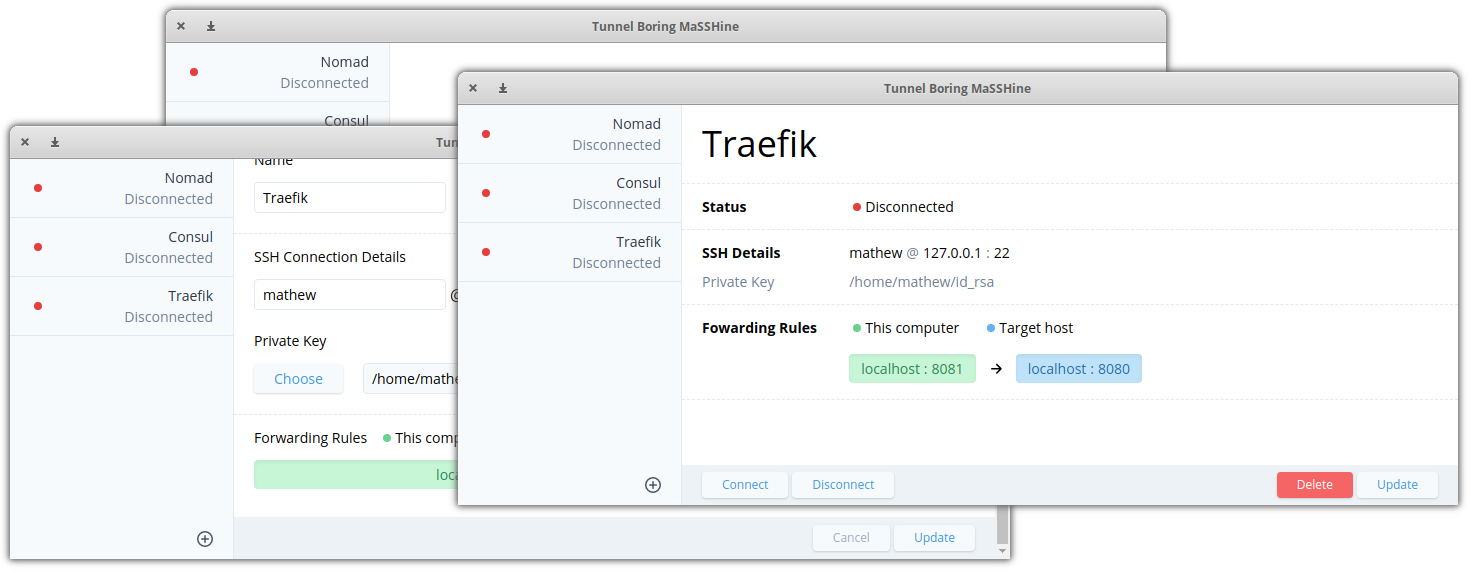
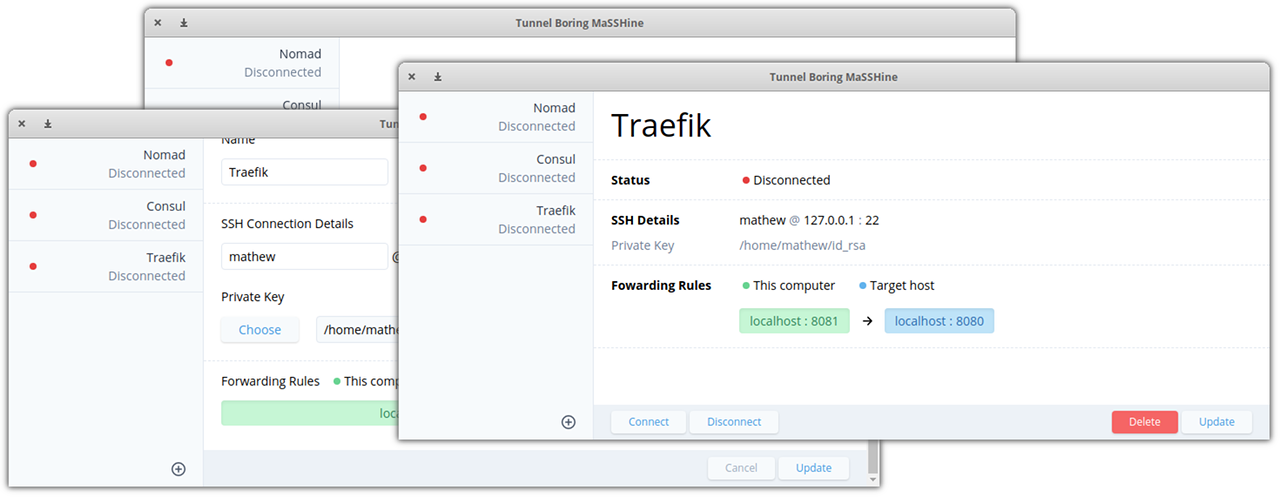
docs: update readme image

diff --git a/README.md b/README.md
@@ -1,6 +1,6 @@
 <p align="center">
   <a href="https://github.com/thepixeldeveloper/tunnel-boring-masshine">
-    <img src="ssh-tunnel-manager.png" alt="Logo" width="800">
+    <img src="tunnel-boring-masshine.png" alt="Logo" width="1280">
   </a>
 
   <h3 align="center">Tunnel Boring MaSSHine</h3>
